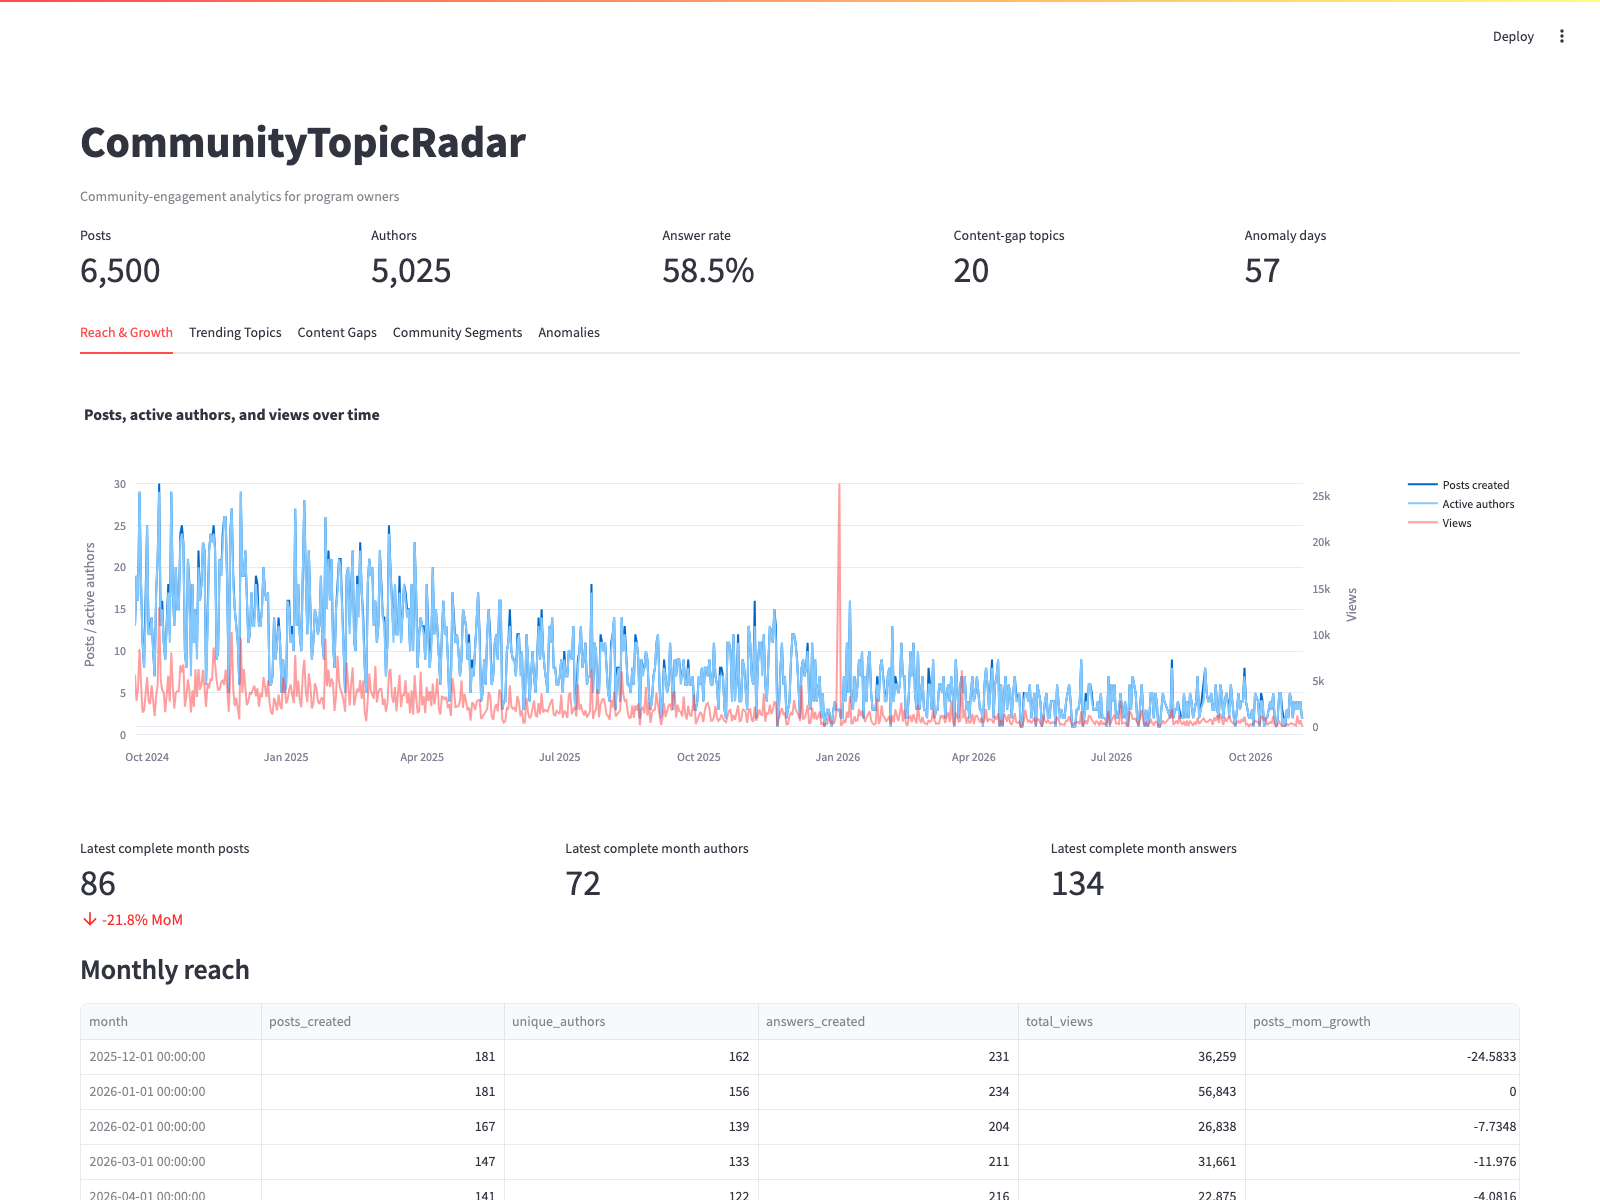
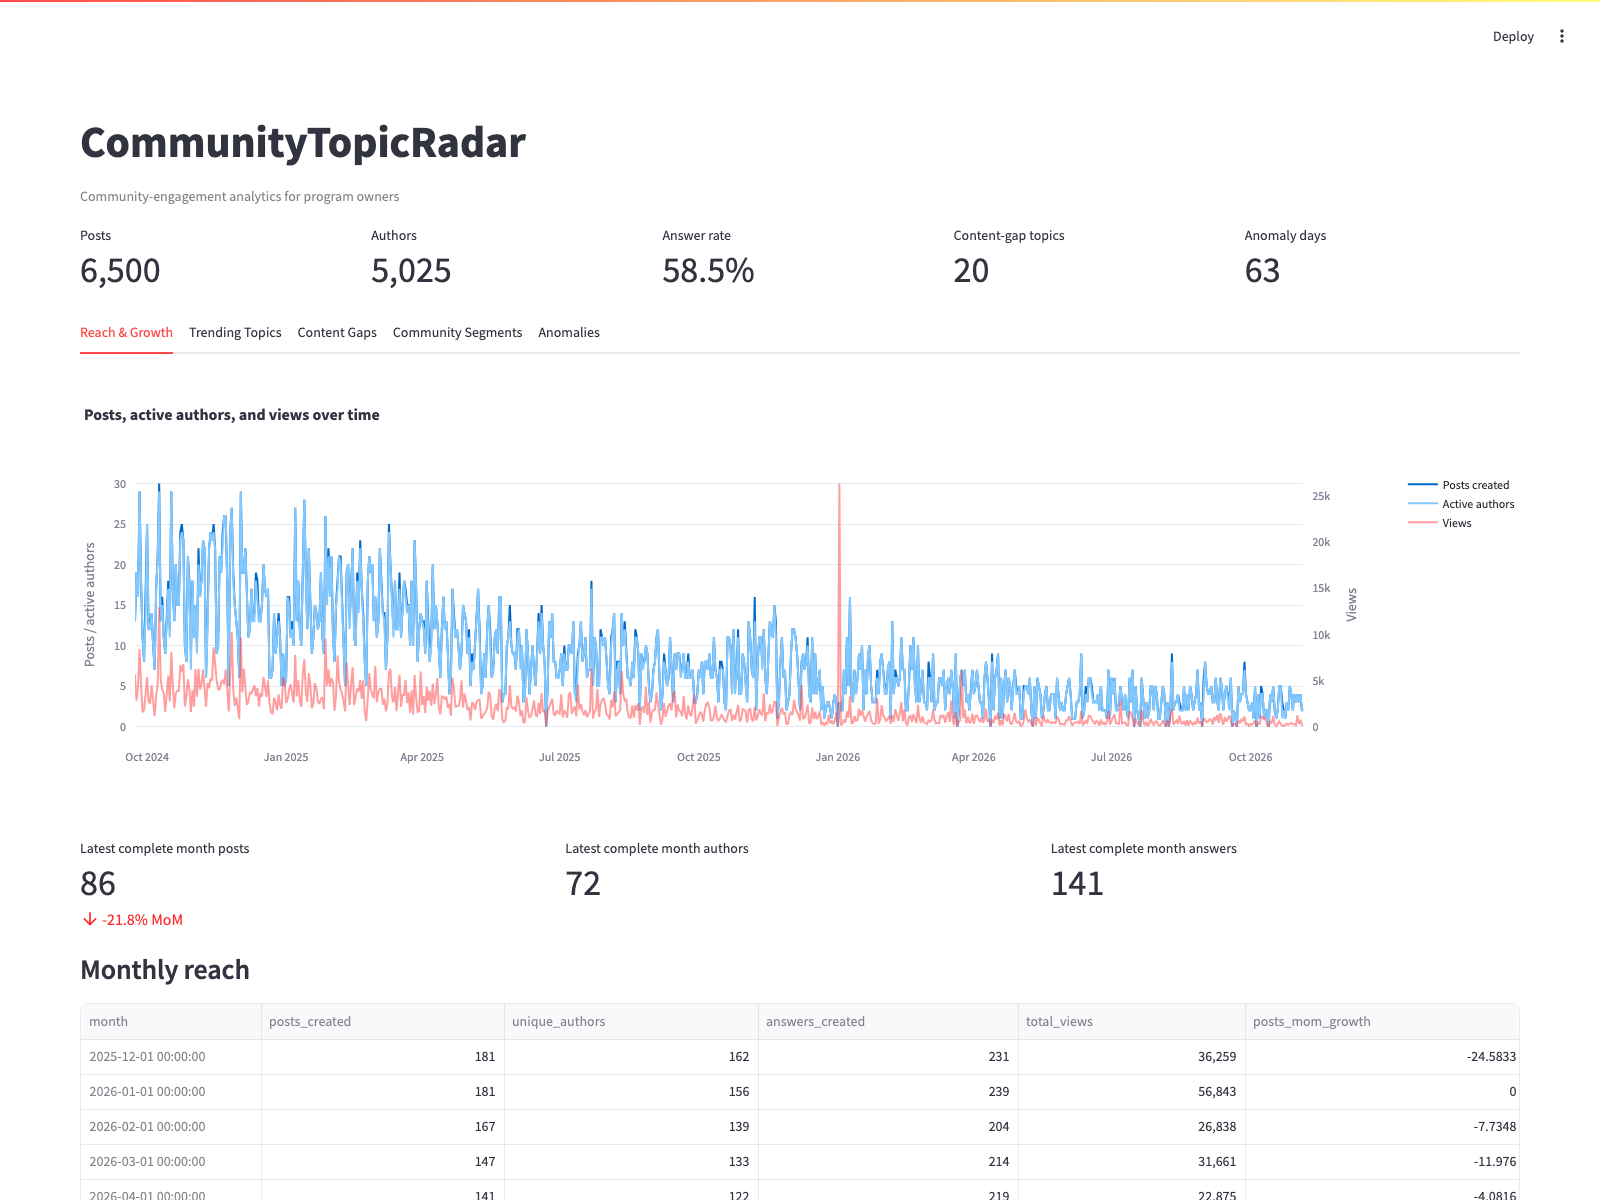
chore: add Makefile, scheduled-scrape design, logging, and type hints

diff --git a/tests/test_ingest.py b/tests/test_ingest.py
@@ -25,7 +25,7 @@ def test_ingest_sample_and_idempotence(settings, memory_engine) -> None:
     assert first["authors"] == 210
     assert first["tags"] == 282
     assert first["post_tags"] == 619
-    assert first["engagement_daily"] == 60
+    assert first["engagement_daily"] == 63
     assert first["source"] == "sample"
 
     second = run_ingest(
@@ -44,7 +44,7 @@ def test_ingest_sample_and_idempotence(settings, memory_engine) -> None:
         assert session.scalar(select(func.count()).select_from(Author)) == 210
         assert session.scalar(select(func.count()).select_from(Tag)) == 282
         assert session.scalar(select(func.count()).select_from(PostTag)) == 619
-        assert session.scalar(select(func.count()).select_from(EngagementDaily)) == 60
+        assert session.scalar(select(func.count()).select_from(EngagementDaily)) == 63
 
 
 def test_ingest_offline_falls_back_to_sample(settings, memory_engine) -> None:

diff --git a/src/ctr/brief.py b/src/ctr/brief.py
@@ -39,6 +39,7 @@ class TemplateSummarizer:
         return "keep monitoring it and refresh the explainer every quarter"
 
     def summarize(self, topic: dict[str, Any]) -> str:
+        """Return a deterministic three-sentence brief from topic facts."""
         label = str(topic["label"])
         posts = int(topic.get("posts", 0))
         answer_rate = float(topic.get("answer_rate", 0.0))

diff --git a/src/ctr/models.py b/src/ctr/models.py
@@ -2,6 +2,7 @@
 
 from __future__ import annotations
 
+import logging
 from datetime import date, datetime
 
 from sqlalchemy import (
@@ -15,6 +16,8 @@ from sqlalchemy import (
     Text,
 )
 from sqlalchemy.orm import DeclarativeBase, Mapped, mapped_column
+
+logger = logging.getLogger(__name__)
 
 
 class Base(DeclarativeBase):

diff --git a/src/ctr/config.py b/src/ctr/config.py
@@ -2,11 +2,14 @@
 
 from __future__ import annotations
 
+import logging
 import os
 from dataclasses import dataclass
 from pathlib import Path
 
 from dotenv import load_dotenv
+
+logger = logging.getLogger(__name__)
 
 DEFAULT_DATABASE_URL = "sqlite:///data/community.db"
 

diff --git a/src/ctr/export.py b/src/ctr/export.py
@@ -163,7 +163,7 @@ DISTINCTCOUNT ( fact_post[author_id] )
 
 Answer Rate =
 DIVIDE (
-    CALCULATE ( COUNTROWS ( fact_post ), fact_post[is_answered] = TRUE () ),
+    CALCULATE ( COUNTROWS ( fact_post ), fact_post[is_answered] = TRUE() ),
     COUNTROWS ( fact_post )
 )
 

diff --git a/README.md b/README.md
@@ -56,13 +56,13 @@ The measured build used the public **Cross Validated** community
 (`stats.stackexchange.com`, Stack Exchange site slug `stats`):
 
 - Source: Stack Exchange API 2.3 questions with `filter=withbody`, plus answers in the same creation window.
-- Date range: **2024-09-23 to 2026-11-05** (774 calendar days, 759 days with engagement).
+- Date range: **2024-09-23 to 2026-11-05** (774 calendar days, 773 days with engagement).
 - Posts: **6,500**.
 - Answers: **7,828**.
 - Authors: **5,025**.
 - Tags: **1,204**.
 - Post-tag links: **21,153**.
-- Daily engagement rows: **759**.
+- Daily engagement rows: **773**.
 - Raw API pages: **65 question pages** and **79 answer pages**.
 
 The full raw dump stays untracked. `data/sample/posts_sample.json` (200 posts) and
@@ -107,6 +107,22 @@ Power BI: import `exports/dim_topic.csv`, `dim_author.csv`, `dim_date.csv`,
 `topic_id`, `author_id` and `date_key`. The exact DAX measures are in
 `exports/powerbi_measures.md`; equivalent PostgreSQL views are in `sql/views.sql`.
 
+### Make targets
+
+```bash
+make setup       # create .venv and install pinned dependencies
+make all         # ingest --offline, analyze, brief, export
+make test        # pytest with the 85% coverage gate
+make lint        # ruff
+make dashboard   # streamlit run src/ctr/dashboard.py
+```
+
+`make all` works from a clean checkout: with no `data/raw` present it replays the
+committed sample, and with raw pages present it replays the full measured dataset. The
+scheduled-run design, cron example and weekly GitHub Actions workflow are in
+`scripts/schedule.md`, `scripts/cron.example` and `.github/workflows/scheduled-scrape.yml`.
+
+
 ## Results (measured)
 
 All values below come from the committed artifacts in `reports/` and `exports/`, generated
@@ -118,7 +134,7 @@ from the full 6,500-post dataset.
 | Answers ingested | 7,828 |
 | Authors | 5,025 |
 | Tags | 1,204 |
-| Days of engagement history | 759 |
+| Days of engagement history | 773 |
 | Chosen NMF topic count | 9 |
 | Top trending term | effects, +600.0% week over week |
 | Trending terms 2–5 | random effects +100.0%, statistical +500.0%, glmmtmb +100.0%, age +100.0% |
@@ -127,11 +143,12 @@ from the full 6,500-post dataset.
 | K-Means clusters / silhouette | 8 / 0.394 |
 | DBSCAN silhouette | 0.838 |
 | Segment sizes | 4,765 lurker, 246 answerer, 9 asker, 5 champion |
-| Anomalies | 74 metric-day rows across 57 days |
-| IsolationForest vs robust-z | precision 0.391, recall 0.209 |
+| Anomalies | 82 metric-day rows across 63 days |
+| IsolationForest vs robust-z | precision 0.333, recall 0.170 |
 | Tests | 45 passed |
-| Coverage on `src/ctr` excluding `dashboard.py` | 86.14% |
-| Full offline pipeline wall-clock (`ingest` → `analyze` → `brief` → `export`) | 33.29 seconds |
+| Coverage on `src/ctr` excluding `dashboard.py` | 86.18% |
+| Full offline pipeline wall-clock (`ingest` → `analyze` → `brief` → `export`) | 33.92 seconds |
+| Clean-checkout `make all` wall-clock (sample fallback) | 18.18 seconds |
 
 Trending terms are ranked by the week-over-week two-proportion z-score. A `+100.0%` change
 means the term had no occurrences in the prior complete week. `+600.0%` means it moved from

diff --git a/scripts/schedule.md b/scripts/schedule.md
@@ -1,0 +1,54 @@
+# Scheduled scrape design
+
+The pipeline is designed to run as a weekly batch job rather than a request-time service.
+Each run is reproducible from the raw payloads it saves.
+
+## Job shape
+
+1. Read `DATABASE_URL`, `STACKEXCHANGE_SITE`, `SCRAPE_PAGES` and an optional
+   `OPENAI_API_KEY` from the environment.
+2. Scrape the newest question pages with the polite, cached `StackExchangeClient`, then
+   scrape answers created in the same window.
+3. Upsert posts, answers, authors and tags. Rebuild `engagement_daily` in one SQL pass.
+4. Re-run trending, content-gap, segment and anomaly analytics.
+5. Generate topic briefs. If the model call fails, use the deterministic template so the
+   job still completes.
+6. Rebuild the star-schema exports and upload `reports/` and `exports/` as job artifacts.
+7. Never push report changes from an unattended job. A human reviews the artifacts and
+   commits the reports that should become the published snapshot.
+
+## Cron example
+
+`scripts/cron.example` runs every Monday at 03:17 local server time, writes a timestamped
+log, and keeps the previous working tree:
+
+```cron
+17 3 * * 1 cd /opt/community-topic-radar && /usr/bin/flock -n /tmp/ctr.lock make all >> /var/log/community-topic-radar.log 2>&1
+```
+
+Install it with:
+
+```bash
+crontab -e
+# paste the line from scripts/cron.example
+```
+
+Use a dedicated service account, restrict the environment file to that account, and keep
+the API key in the environment or a secret manager. The cache in `data/cache/` makes reruns
+and retries cheap; `data/raw/` is the durable replay record.
+
+## GitHub Actions schedule
+
+`.github/workflows/scheduled-scrape.yml` runs weekly and on manual dispatch. It runs the
+live scrape, plus analyze, brief and export, then uploads the generated reports and exports
+as workflow artifacts. It does not commit or push. Add `OPENAI_API_KEY` as a repository
+secret only if model-written briefs are wanted; otherwise the template fallback is used.
+
+## Failure handling
+
+- HTTP 429/5xx responses retry with exponential backoff up to four attempts.
+- Missing or malformed cache entries are ignored and refetched.
+- A failed OpenAI call retries once and then falls back to the template.
+- The job fails loudly if ingestion returns zero posts; it will not overwrite a good report
+  with an empty run.
+- Keep the previous artifact run in the CI retention policy for at least one quarter.

diff --git a/exports/powerbi_measures.md b/exports/powerbi_measures.md
@@ -10,7 +10,7 @@ DISTINCTCOUNT ( fact_post[author_id] )
 
 Answer Rate =
 DIVIDE (
-    CALCULATE ( COUNTROWS ( fact_post ), fact_post[is_answered] = TRUE () ),
+    CALCULATE ( COUNTROWS ( fact_post ), fact_post[is_answered] = TRUE() ),
     COUNTROWS ( fact_post )
 )
 
